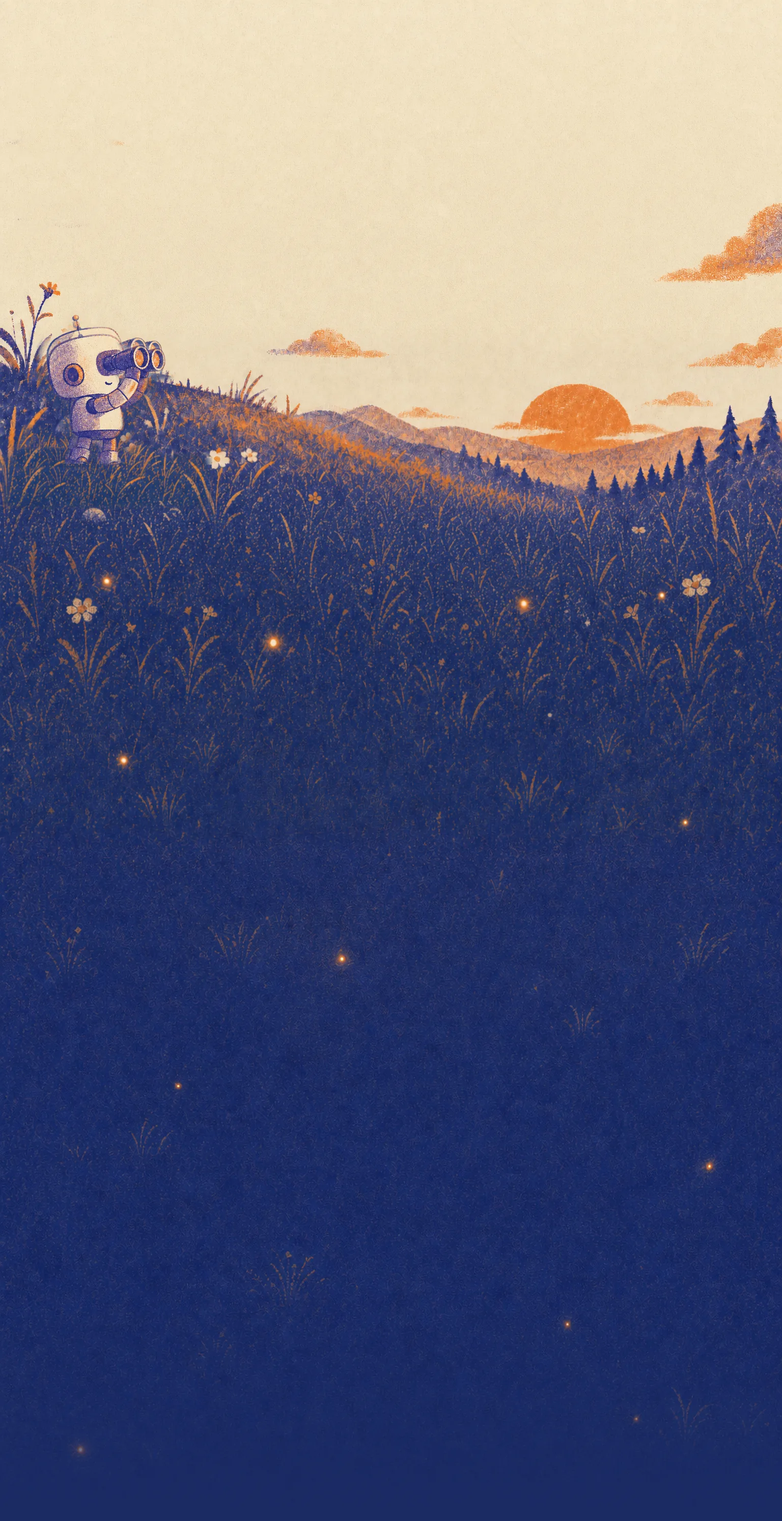
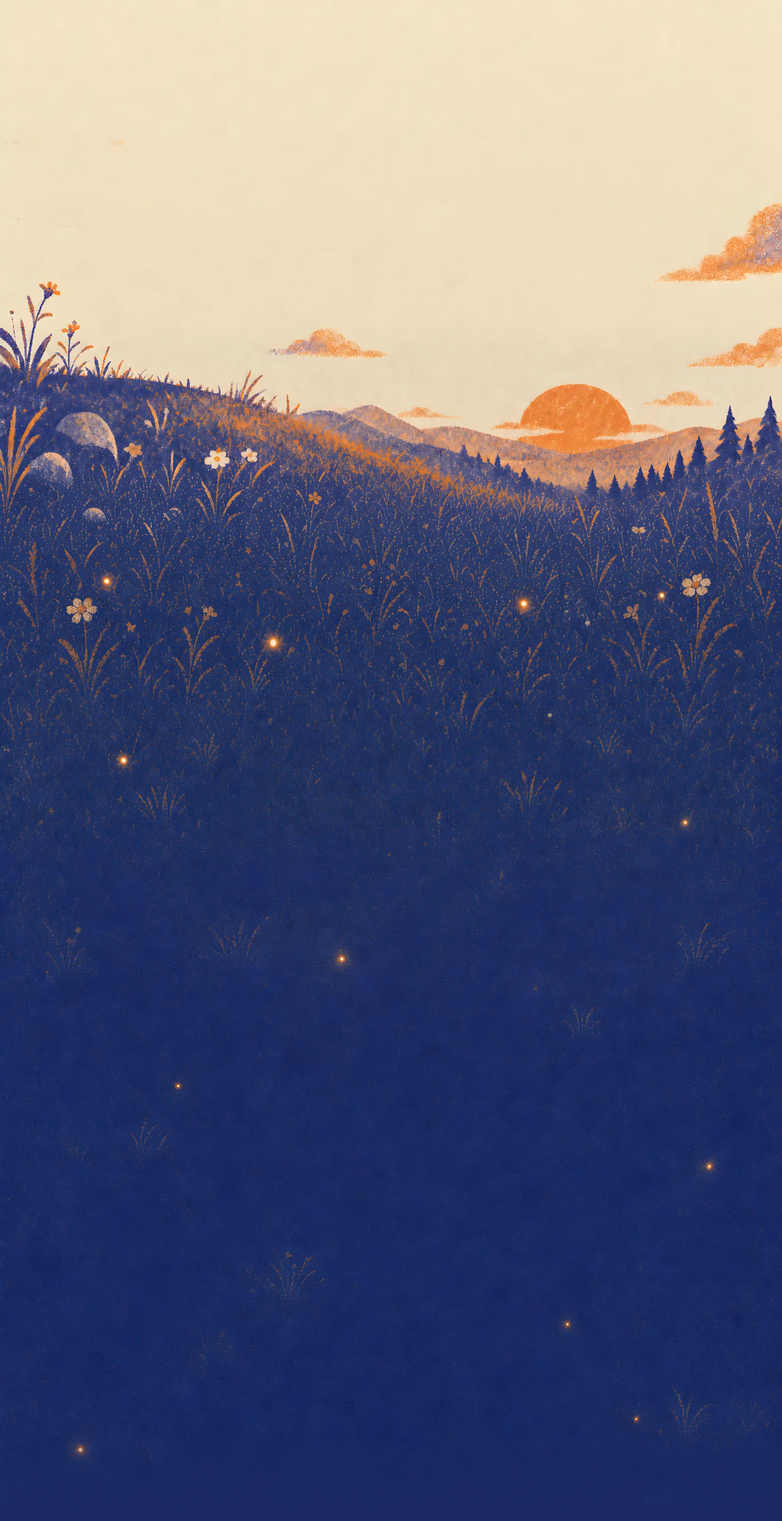
scene: real layers — bg / robot / front-grass hill in painting-space
- robot-less painting as body bg (verified-clean 2x, bottom fade)
- robot sprite = original plate pixels x Flora matte, ESRGAN 2x
  (Flora Upscaler + Transparent-BG techniques A/B'd and rejected on drift)
- front hill = same painting pixels with luminance-keyed blade fringe;
  feet tuck behind real painted grass, sky-gaps show him through
- he breathes, follows the cursor (lerped gaze), perks up on input focus
- mobile: leans out from the card's left shoulder; fresh og.jpg
- report fixes: policy-token detection, live-infra guardrail, edge-block
  verify carve-out, merge-don't-replace fixkit step, llms.txt fix copy

Changed region(s): [[0.0, 0.1867, 0.2812, 0.3424]]

diff --git a/public/app.js b/public/app.js
@@ -156,7 +156,7 @@ function renderStage(data) {
 
   // problems first, then readable, then the policy/training paperwork
   const rank = (c) => {
-    const policy = !c.robots && !c.edge;
+    const policy = c.edge === "not-probed";
     if (!c.canRead && !c.trainingOnly && !policy) return 0;
     if (c.canRead) return 1;
     return 2;
@@ -164,7 +164,7 @@ function renderStage(data) {
   const crawlers = [...data.crawlers].sort((a, b) => rank(a) - rank(b));
 
   for (const c of crawlers) {
-    const policy = !c.robots && !c.edge;
+    const policy = c.edge === "not-probed";
     const cls = c.canRead ? "ok" : policy ? "neutral" : c.trainingOnly ? "train" : "no";
     const mark = c.canRead ? "✓ " : policy ? "· " : "✗ ";
     const s = el("button", `stamp ${cls}`, mark + c.name);
@@ -204,7 +204,7 @@ function renderStage(data) {
             : rv.replace(/-/g, " "),
           rv !== "block"
         );
-        if (c.edge != null) row("edge, as this crawler", c.edge === "pass" ? "server sent the page" : String(c.edge), c.edge === "pass");
+        if (c.edge != null && c.edge !== "not-probed") row("edge, as this crawler", c.edge === "pass" ? "server sent the page" : String(c.edge), c.edge === "pass");
       }
       row("verdict", c.canRead ? "can read this page" : c.blockedBy || "cannot read this page", c.canRead ? true : c.trainingOnly ? null : false);
       detail.appendChild(rows);
@@ -244,19 +244,20 @@ function findingRow(f) {
 function buildFixPrompt(data, url) {
   const clean = (data.finalUrl || url).replace(/\/$/, "");
   const enc = encodeURIComponent(clean);
-  const probed = data.crawlers.length;
+  const probed = data.crawlers.filter((c) => c.edge && c.edge !== "not-probed").length;
+  const edgeBlockedCase = data.findings.some((f) => f.id === "edge-block");
   const cant = data.crawlers.filter((c) => !c.trainingOnly && !c.canRead).map((c) => c.name);
   const good = data.findings.filter((f) => f.severity === "good").map((f) => f.title);
   const steps = data.findings
     .filter((f) => f.severity !== "good" && f.fix)
     .map((f) => `${f.title} — ${f.fix}`);
-  steps.push(`GET https://amivisible.dev/api/fixkit?url=${enc} — it returns a ready-made robots.txt and an llms.txt draft. Apply what fits this repo.`);
+  steps.push(`GET https://amivisible.dev/api/fixkit?url=${enc} — it returns a recommended robots.txt and an llms.txt draft. Merge what's missing into the existing files; never replace a robots.txt wholesale, and skip anything already covered.`);
 
   const allClear = data.headline.visible === data.headline.total;
   const lines = [];
   lines.push(`Fix the AI visibility of ${clean}.`);
   lines.push("");
-  lines.push(`amivisible.dev checked it against ${probed} AI crawler identities — real HTTP probes, no guesses. Score: ${data.headline.visible}/${data.headline.total} citation-path crawlers can read it.`);
+  lines.push(`amivisible.dev probed it as ${probed} AI crawler user-agents (real HTTP requests, no guesses), plus the robots.txt-only policy tokens. Score: ${data.headline.visible}/${data.headline.total} citation-path crawlers can read it.`);
   if (cant.length) lines.push(`Can't read it: ${cant.join(", ")}.`);
   if (good.length) lines.push(`Already working — don't touch: ${good.join("; ")}.`);
   lines.push("");
@@ -265,13 +266,18 @@ function buildFixPrompt(data, url) {
   lines.push("");
   lines.push("Rules:");
   lines.push("- Keep any deliberate training-bot blocks (GPTBot, ClaudeBot, CCBot…) — they don't cost AI-answer visibility. Only fix the citation path.");
+  lines.push("- Live-infrastructure changes (CDN/WAF dashboards, DNS, bot settings): describe the exact change and hand it to me — never apply it yourself.");
   lines.push("- Show me the full diff before committing anything.");
   lines.push("");
-  lines.push(
-    allClear
-      ? `Verify when done: GET https://amivisible.dev/api/check?url=${enc}&fresh=1 — the score should stay ${data.headline.total}/${data.headline.total}.`
-      : `Verify when done: GET https://amivisible.dev/api/check?url=${enc}&fresh=1 — expect ${data.headline.total}/${data.headline.total}.`
-  );
+  if (edgeBlockedCase) {
+    lines.push(`Verify after the file changes are deployed: GET https://amivisible.dev/api/check?url=${enc}&fresh=1 — the robots.txt findings should clear. Edge (CDN/WAF) verdicts need a human dashboard change and can still read as blocked to our datacenter probes afterwards — if only edge blocks remain, stop and report.`);
+  } else {
+    lines.push(
+      allClear
+        ? `Verify after your changes are deployed: GET https://amivisible.dev/api/check?url=${enc}&fresh=1 — the score should stay ${data.headline.total}/${data.headline.total}.`
+        : `Verify after your changes are deployed: GET https://amivisible.dev/api/check?url=${enc}&fresh=1 — expect ${data.headline.total}/${data.headline.total}.`
+    );
+  }
   return lines.join("\n");
 }
 
@@ -303,7 +309,7 @@ function render(data) {
   const hasWork = improvables.some((f) => f.fix) || data.headline.visible < data.headline.total;
   $("fix-prompt-box").hidden = !hasWork;
   $("improve-lead").hidden = !hasWork;
-  $("improve-clear").hidden = hasWork;
+  $("improve-clear").hidden = hasWork || improvables.length > 0;
   if (hasWork) $("fix-prompt").textContent = buildFixPrompt(data, currentUrl);
   $("improve-block").hidden = !hasWork && improvables.length === 0;
 
@@ -353,12 +359,14 @@ function personalizePrompt(url) {
 
 async function loadFixkit() {
   if (!currentUrl) return;
+  const requestedFor = currentUrl;
   const box = $("fixkit");
   box.hidden = false;
   box.innerHTML = "<p class='kit-note'>building the kit…</p>";
   try {
-    const res = await fetch(`/api/fixkit?url=${encodeURIComponent(currentUrl)}`);
+    const res = await fetch(`/api/fixkit?url=${encodeURIComponent(requestedFor)}`);
     const kit = await res.json();
+    if (currentUrl !== requestedFor) return;
     if (!res.ok || kit.error) {
       box.innerHTML = "";
       box.appendChild(el("p", "kit-note", kit.detail || kit.error || "fix kit failed"));
@@ -420,6 +428,43 @@ const bindCopy = (btnId, srcId, label) => {
 };
 bindCopy("copy-prompt", "agent-prompt", "copy prompt");
 bindCopy("copy-fix", "fix-prompt", "copy fix prompt");
+
+// the scout tracks your cursor — the robot is a real layer, so he can move.
+// Gentle lerp toward the pointer; eases back to rest when it leaves.
+(() => {
+  const wrap = $("scene-robot");
+  if (!wrap) return;
+  if (matchMedia("(prefers-reduced-motion: reduce)").matches) return;
+  if (!matchMedia("(pointer: fine)").matches) return;
+  let tx = 0, ty = 0, tr = 0, cx = 0, cy = 0, cr = 0, raf = 0;
+  const tick = () => {
+    cx += (tx - cx) * 0.06; cy += (ty - cy) * 0.06; cr += (tr - cr) * 0.06;
+    wrap.style.transform = `translate(${cx.toFixed(2)}px, ${cy.toFixed(2)}px) rotate(${cr.toFixed(3)}deg)`;
+    if (Math.abs(tx - cx) + Math.abs(ty - cy) + Math.abs(tr - cr) > 0.05) raf = requestAnimationFrame(tick);
+    else raf = 0;
+  };
+  const aim = () => { if (!raf) raf = requestAnimationFrame(tick); };
+  addEventListener("pointermove", (e) => {
+    const r = wrap.getBoundingClientRect();
+    if (r.bottom < 0) return; // scrolled past the hero
+    const dx = (e.clientX - (r.left + r.width / 2)) / innerWidth;
+    const dy = (e.clientY - (r.top + r.height * 0.4)) / innerHeight;
+    tx = Math.max(-1, Math.min(1, dx * 2)) * 7;
+    ty = Math.max(-1, Math.min(1, dy * 2)) * 4;
+    tr = Math.max(-1, Math.min(1, dx * 2)) * 2.4;
+    aim();
+  }, { passive: true });
+  addEventListener("pointerleave", () => { tx = ty = tr = 0; aim(); });
+})();
+
+// he perks up when you're about to type
+{
+  const wrap = $("scene-robot"), input = $("url-input");
+  if (wrap && input) {
+    input.addEventListener("focus", () => wrap.classList.add("perk"));
+    input.addEventListener("blur", () => wrap.classList.remove("perk"));
+  }
+}
 
 // shareable links: /?url=… auto-runs
 const initial = new URLSearchParams(location.search).get("url");

diff --git a/public/style.css b/public/style.css
@@ -68,6 +68,46 @@ a { color: var(--violet); }
 
 html, body { overflow-x: clip; }
 
+/* ---------- scene layers ----------
+   The painting is the body background (100% wide ⇒ 1 painting px = 100/1536 vw).
+   The robot and the front hill are separate imgs positioned in that same
+   painting-space, so they can move independently: robot sits between the
+   body bg and the hill, feet tucked behind the painted ridge grass. */
+.scene {
+  position: absolute;
+  top: 0; left: 0;
+  width: 100%;
+  height: 194.53vw; /* 2988/1536 — full painting height */
+  pointer-events: none;
+  z-index: 1;
+}
+.scene-robot-wrap {
+  position: absolute;
+  /* variant A: near the original ridge spot, 0.85× — feet y782 behind the crest */
+  left: 11.9vw;
+  top: 27.17vw;
+  width: 19.04vw;
+  will-change: transform;
+  transition: margin-top 0.4s cubic-bezier(0.34, 1.56, 0.64, 1);
+}
+/* he notices when you're about to type */
+.scene-robot-wrap.perk { margin-top: -12px; }
+.scene-robot {
+  display: block;
+  width: 100%;
+  height: auto;
+  transform-origin: 50% 92%;
+  animation: breathe 5.2s ease-in-out infinite alternate;
+}
+.scene-hill {
+  position: absolute;
+  left: 0;
+  top: 36.458vw;  /* painting y560 */
+  width: 65.104vw; /* painting x0-1000 */
+  height: auto;
+}
+.postcard, .meadow { z-index: 2; }
+
 .postcard {
   position: relative;
   min-height: 92vh;
@@ -512,6 +552,11 @@ footer a { color: var(--violet); }
 
 @media (max-width: 820px) {
   body { background-image: url("/assets/scene-sm.webp"); background-size: 235% auto; background-position: 4% top; }
+  /* painting-space at 235%: 1 painting px = 235/1536 vw, shifted 5.4vw left (4% of the 135vw excess) */
+  .scene { height: 457.15vw; }
+  /* peek around the card's left shoulder, not dead behind it */
+  .scene-robot-wrap { left: 15vw; top: 60.5vw; width: 44.74vw; transform: rotate(-4.5deg); }
+  .scene-hill { left: -5.4vw; top: 85.68vw; width: 152.99vw; }
   .postcard { min-height: 96vh; }
   .topbar { padding: 14px 12px; }
   .topbar nav a { margin-left: 10px; font-size: 13px; }
@@ -542,4 +587,6 @@ footer a { color: var(--violet); }
   .btn-secondary, #scan-btn, #url-input, .stamp { transition: none; }
   #report:not([hidden]), #fixkit:not([hidden]), .check-error:not([hidden]) { animation: none; }
   .sky-window { animation: none; }
+  .scene-robot { animation: none; }
+  .scene-robot-wrap { transition: none; }
 }

diff --git a/src/report.ts b/src/report.ts
@@ -348,7 +348,7 @@ function buildFindings(
       id: "llms-txt", severity: "info", evidence: "SPECULATIVE",
       title: "No llms.txt — one static file would greet the agent web",
       detail: "No major engine documents consuming llms.txt yet (an Ahrefs study across ~5,000 domains found zero attributable citations), so this never affects your score. But coding agents and AI browsers pointed at your site do fetch it, it costs nothing to serve, and it's the friendly move. The fix kit drafts one for you.",
-      fix: "Serve /llms.txt — a short markdown index of your key pages. GET https://amivisible.dev/api/fixkit returns a draft.",
+      fix: "Serve /llms.txt — a short markdown index of your key pages (the fix kit drafts one for you).",
     });
   }
 

diff --git a/public/index.html b/public/index.html
@@ -20,6 +20,14 @@
 </head>
 <body>
 
+<!-- real scene layers in painting-space: body bg (painting) < robot < hill < content -->
+<div class="scene" aria-hidden="true">
+  <div class="scene-robot-wrap" id="scene-robot">
+    <img class="scene-robot" src="/assets/robot.webp" alt="" draggable="false">
+  </div>
+  <img class="scene-hill" src="/assets/hill.webp" alt="" draggable="false">
+</div>
+
 <div class="postcard">
   <header class="topbar">
     <a class="wordmark" href="/">amivisible</a>
